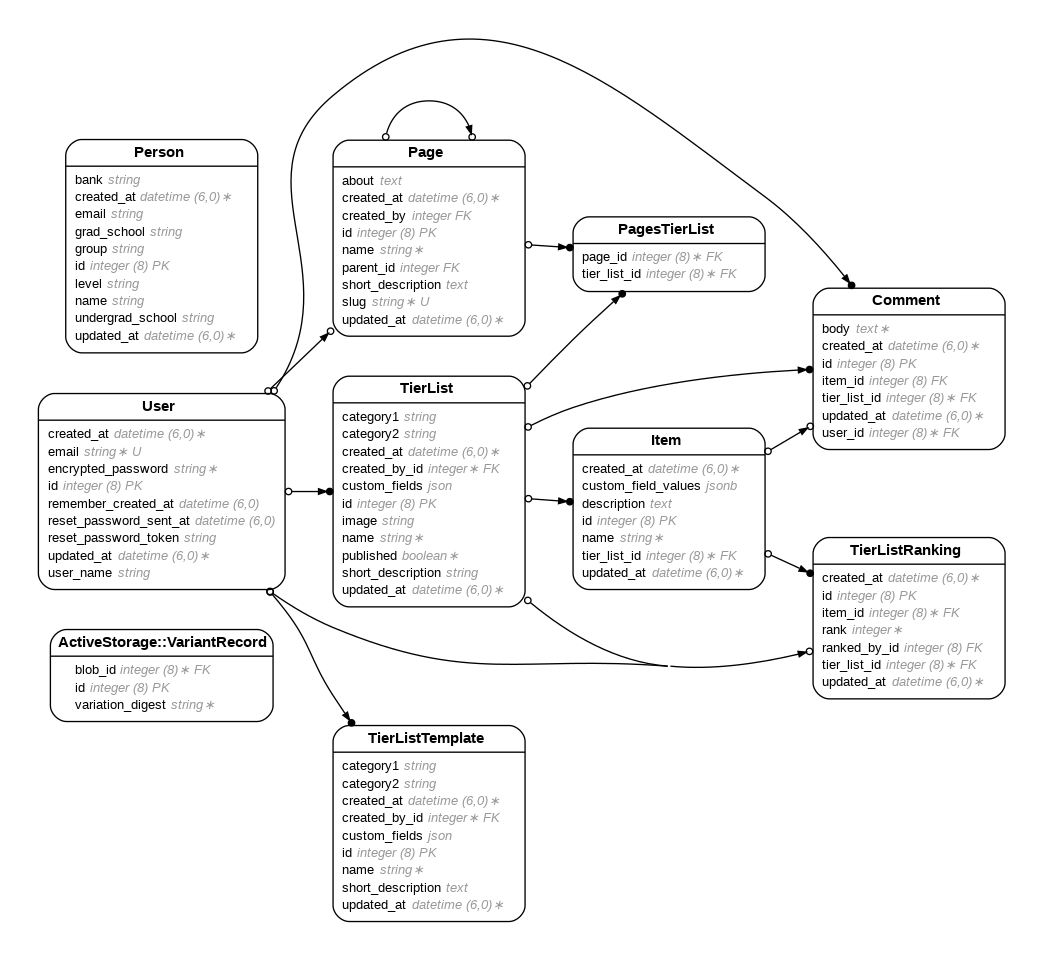
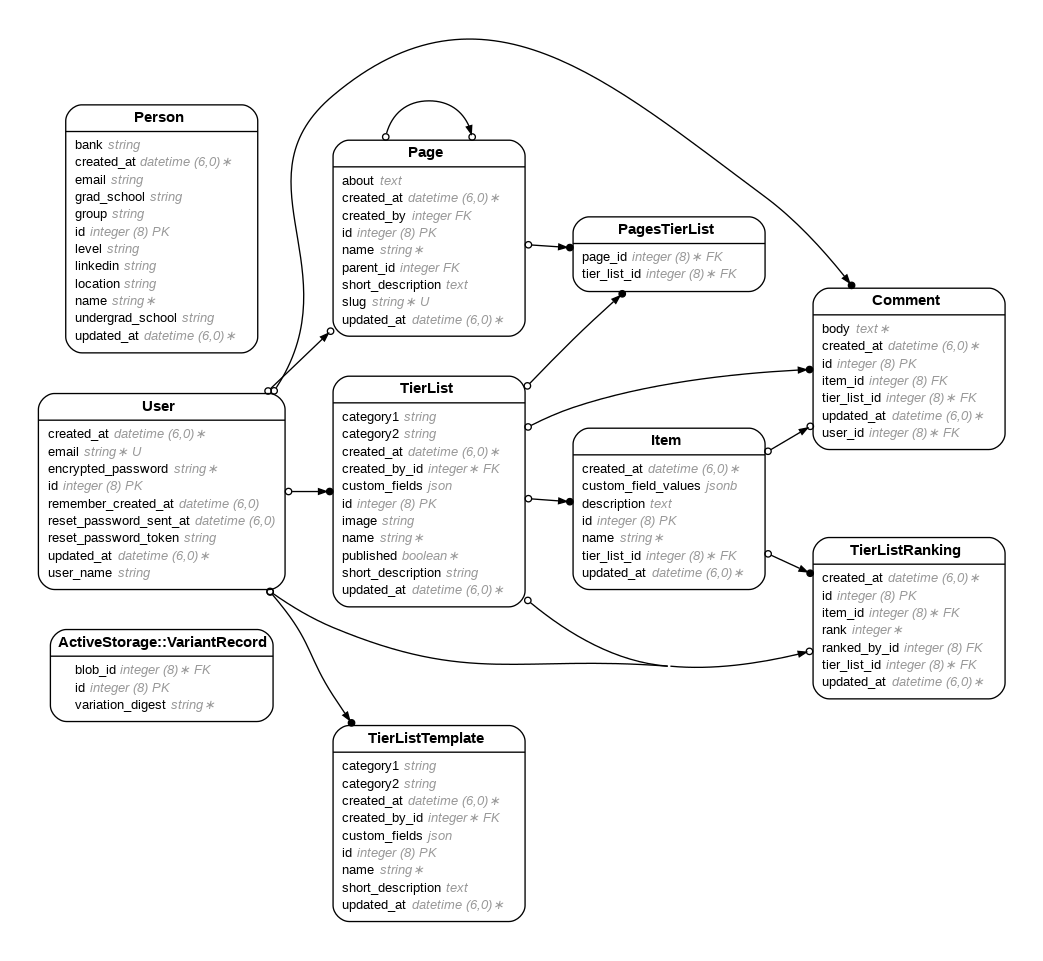
Updated the form

Changed region(s): [[0.0614, 0.0937, 0.2454, 0.3122]]

diff --git a/app/models/person.rb b/app/models/person.rb
@@ -8,6 +8,8 @@
 #  grad_school      :string
 #  group            :string
 #  level            :string
+#  linkedin         :string
+#  location         :string
 #  name             :string
 #  undergrad_school :string
 #  created_at       :datetime         not null
@@ -18,6 +20,7 @@ class Person < ApplicationRecord
   has_one_attached :image
 
   validates :name, presence: true
+  validates :linkedin, format: { with: URI::DEFAULT_PARSER.make_regexp, message: "must be a valid URL" }, allow_blank: true
 
   # Bank Groups Mapping
   BANK_GROUPS = {
@@ -45,6 +48,28 @@ class Person < ApplicationRecord
 
   def self.levels_for_bank(bank_name)
     BANK_LEVELS[bank_name] || DEFAULT_LEVELS
+  end
+
+  # Bank Locations (Shared Across All Banks)
+  BANK_LOCATIONS = [
+    "Other",
+    "New York",
+    "California",
+    "San Francisco",
+    "Chicago",
+    "London",
+    "Hong Kong",
+    "Singapore",
+    "Tokyo",
+    "Frankfurt",
+    "Sydney",
+    "Toronto",
+    "Dubai"
+  ]
+
+  # Fetch Locations for Any Bank
+  def self.locations_for_bank
+    BANK_LOCATIONS
   end
 
 end

diff --git a/app/controllers/people_controller.rb b/app/controllers/people_controller.rb
@@ -12,6 +12,7 @@ class PeopleController < ApplicationController
     @bank_name = params[:page_name] || 'Default Bank Name'
     @bank_groups = Person.groups_for_bank(@bank_name)
     @bank_levels = Person.levels_for_bank(@bank_name)
+    @bank_locations = Person.locations_for_bank
 
     # Fetch people filtered by the bank
     @people = Person.where(bank: @bank_name)
@@ -59,7 +60,18 @@ class PeopleController < ApplicationController
   private
 
   def person_params
-    params.require(:person).permit(:name, :bank, :group, :level, :email, :undergrad_school, :grad_school, :image)
+    params.require(:person).permit(
+      :name,
+      :bank,
+      :group,
+      :level,
+      :email,
+      :undergrad_school,
+      :grad_school,
+      :location,
+      :linkedin,
+      :image
+    )
   end
   
   

diff --git a/db/schema.rb b/db/schema.rb
@@ -10,7 +10,7 @@
 #
 # It's strongly recommended that you check this file into your version control system.
 
-ActiveRecord::Schema[7.1].define(version: 2024_12_28_130352) do
+ActiveRecord::Schema[7.1].define(version: 2024_12_28_162410) do
   # These are extensions that must be enabled in order to support this database
   enable_extension "plpgsql"
 
@@ -94,6 +94,8 @@ ActiveRecord::Schema[7.1].define(version: 2024_12_28_130352) do
     t.string "grad_school"
     t.datetime "created_at", null: false
     t.datetime "updated_at", null: false
+    t.string "location"
+    t.string "linkedin"
   end
 
   create_table "tier_list_rankings", force: :cascade do |t|

diff --git a/db/migrate/20241228162410_add_location_and_linkedin_to_people.rb b/db/migrate/20241228162410_add_location_and_linkedin_to_people.rb
@@ -1,0 +1,6 @@
+class AddLocationAndLinkedinToPeople < ActiveRecord::Migration[7.1]
+  def change
+    add_column :people, :location, :string
+    add_column :people, :linkedin, :string
+  end
+end
